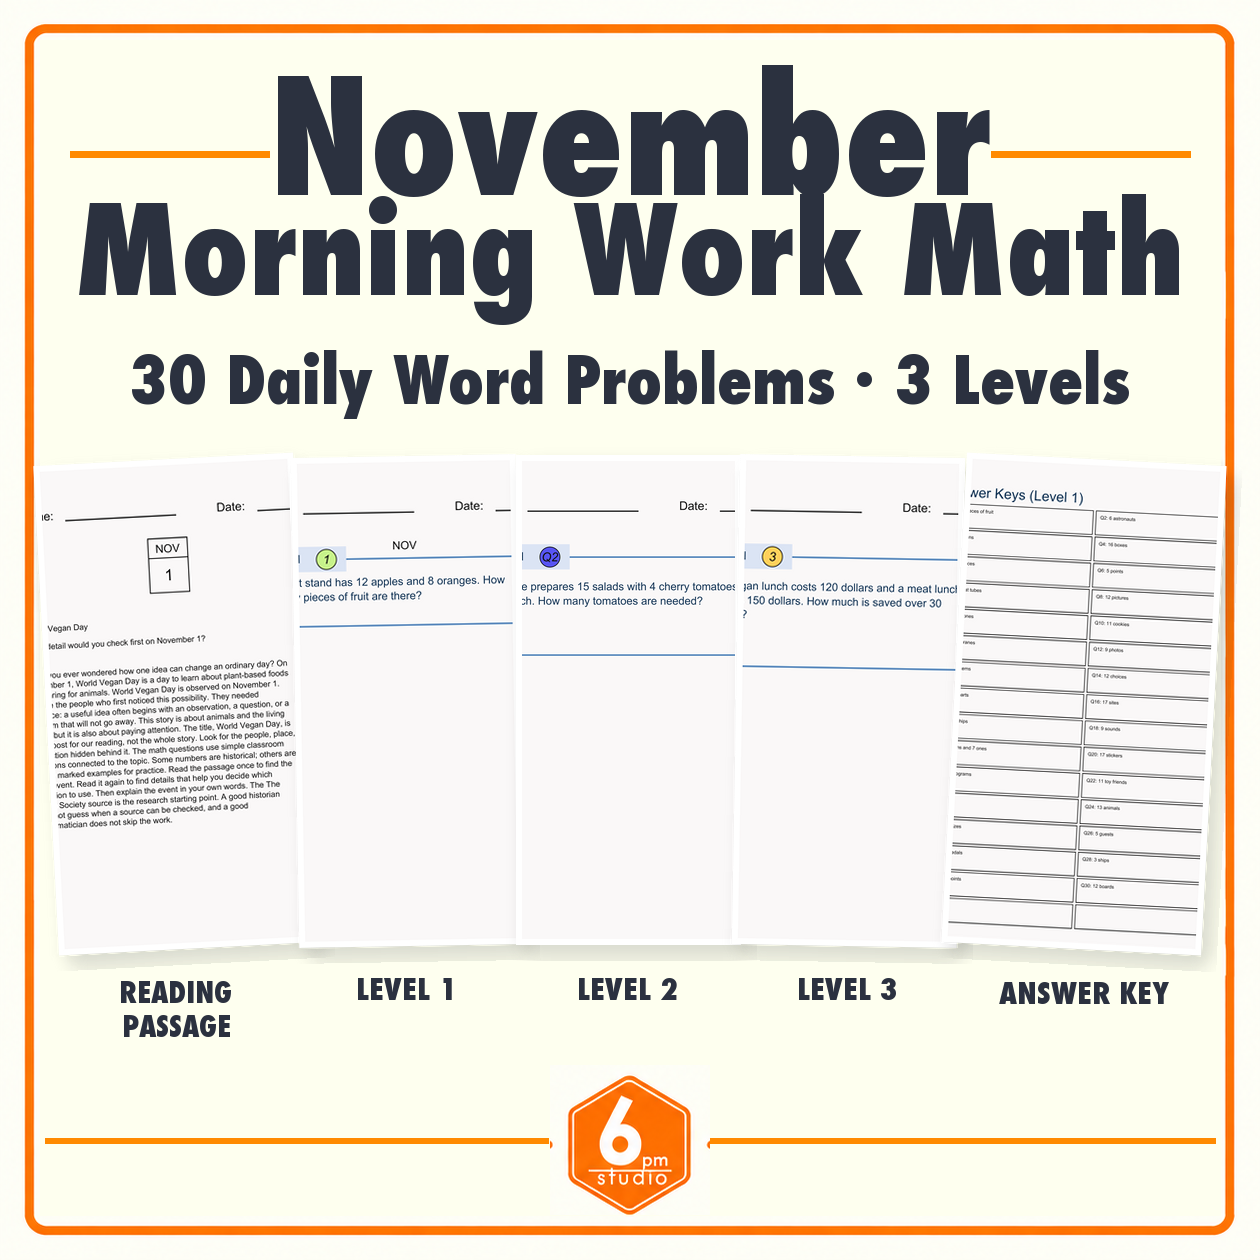
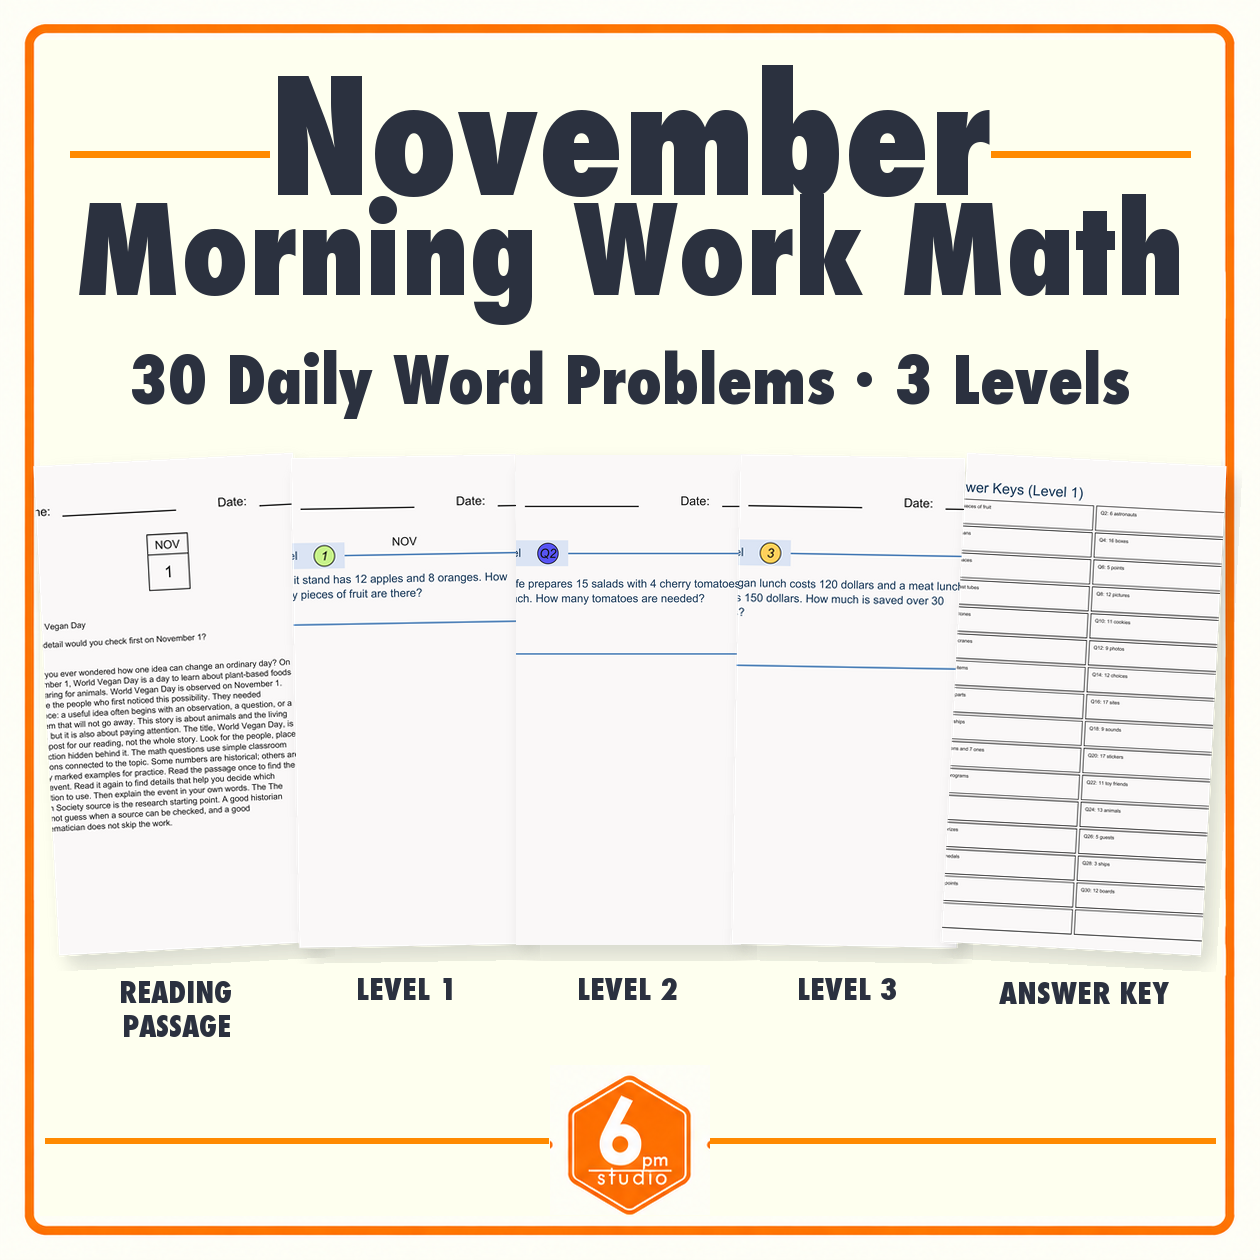
Remove worksheet card seam borders

diff --git a/scripts/generate_monthly_thumbnails.py b/scripts/generate_monthly_thumbnails.py
@@ -218,7 +218,10 @@ def card(canvas, page, box, label, label_style="pill", label_width=None, outline
     ImageDraw.Draw(shadow).rounded_rectangle((x + 8, y + 10, x + w + 8, y + h + 10), 12, fill=(43, 49, 63, 45))
     canvas.alpha_composite(shadow.filter(ImageFilter.GaussianBlur(8)))
     source = Image.open(page).convert("RGB")
-    target_size = (w - 12, h - 12)
+    # Landing cards have no outline; fill their complete paper window so the
+    # synthetic white inset cannot create bright seams between overlapping
+    # worksheet screenshots. Other card modes retain their original inset.
+    target_size = (w, h) if fit_mode == "cover" else (w - 12, h - 12)
     if fit_mode == "cover":
         # Fill the fixed card window while preserving the worksheet's aspect
         # ratio; crop only the centered overflow instead of stretching it.
